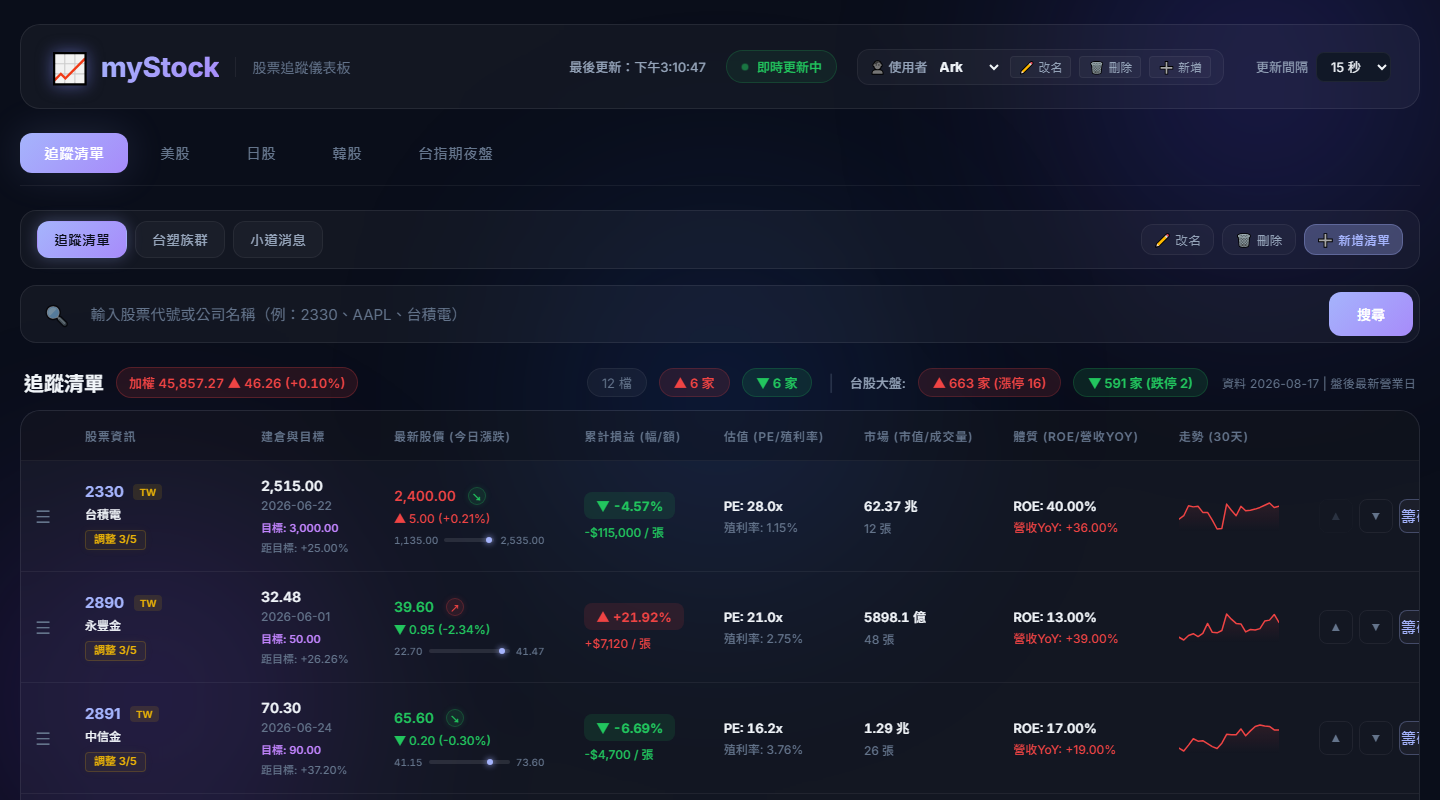
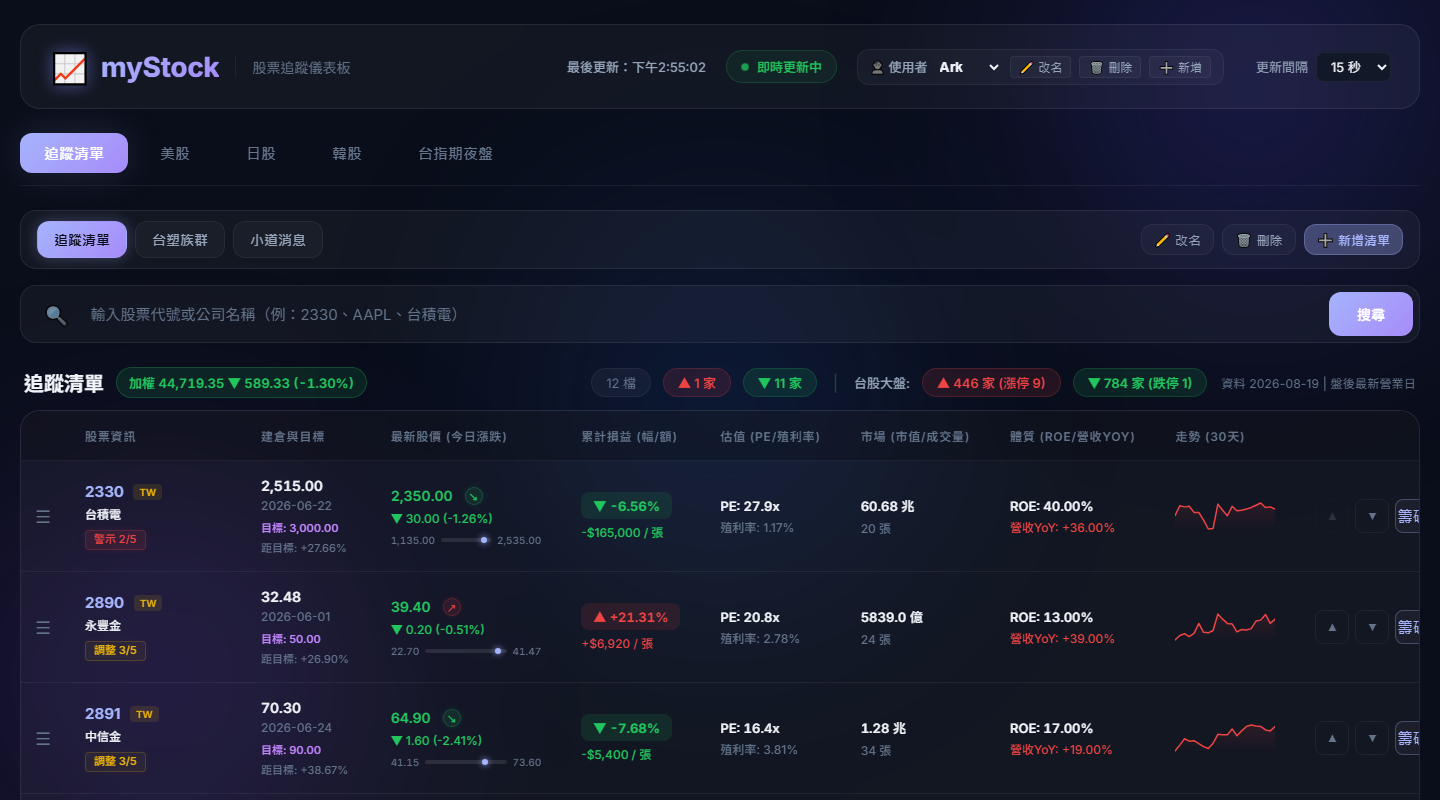
feat: add 籌碼/脫利 operation details to slide 3 + updated screenshot

diff --git a/docs/presentation.html b/docs/presentation.html
@@ -372,7 +372,17 @@
                             <li><strong style="color:#60a5fa">市場 (市值/成交量)</strong> — 總市值(兆/億)、當日成交量(張)</li>
                             <li><strong style="color:#60a5fa">體質 (ROE/營收YoY)</strong> — 股東權益報酬率、年營收成長率</li>
                             <li><strong style="color:#60a5fa">走勢 (30天)</strong> — 近30日收盤價 Sparkline 迷你折線圖</li>
-                            <li><strong style="color:#60a5fa">操作</strong> — 排序▲▼、複製、編輯✏、刪除🗑</li>
+                            <li><strong style="color:#60a5fa">操作</strong> — 排序▲▼、籌碼、脫利、編輯✏、刪除🗑</li>
+                        </ul>
+                    </div>
+                    <div class="card" style="padding:12px 15px;">
+                        <h3 style="font-size:1rem; margin-bottom:8px;">🔧 操作按鈕功能</h3>
+                        <ul style="font-size:0.8rem;">
+                            <li><strong style="color:#a78bfa">▲ ▼ 排序</strong> — 將個股在清單中上移/下移</li>
+                            <li><strong style="color:#a78bfa">籌碼</strong> — 查看三大法人買賣超、外資持股比例、融資融券餘額等籌碼面資訊</li>
+                            <li><strong style="color:#a78bfa">脫利</strong> — 一鍵計算停利/停損價位，依建倉價與目標報酬率自動推算出場點</li>
+                            <li><strong style="color:#a78bfa">✏ 編輯</strong> — 修改建倉日、建倉價、目標價</li>
+                            <li><strong style="color:#a78bfa">🗑 刪除</strong> — 從追蹤清單中移除該個股</li>
                         </ul>
                     </div>
                     <div class="card" style="padding:12px 15px;">
